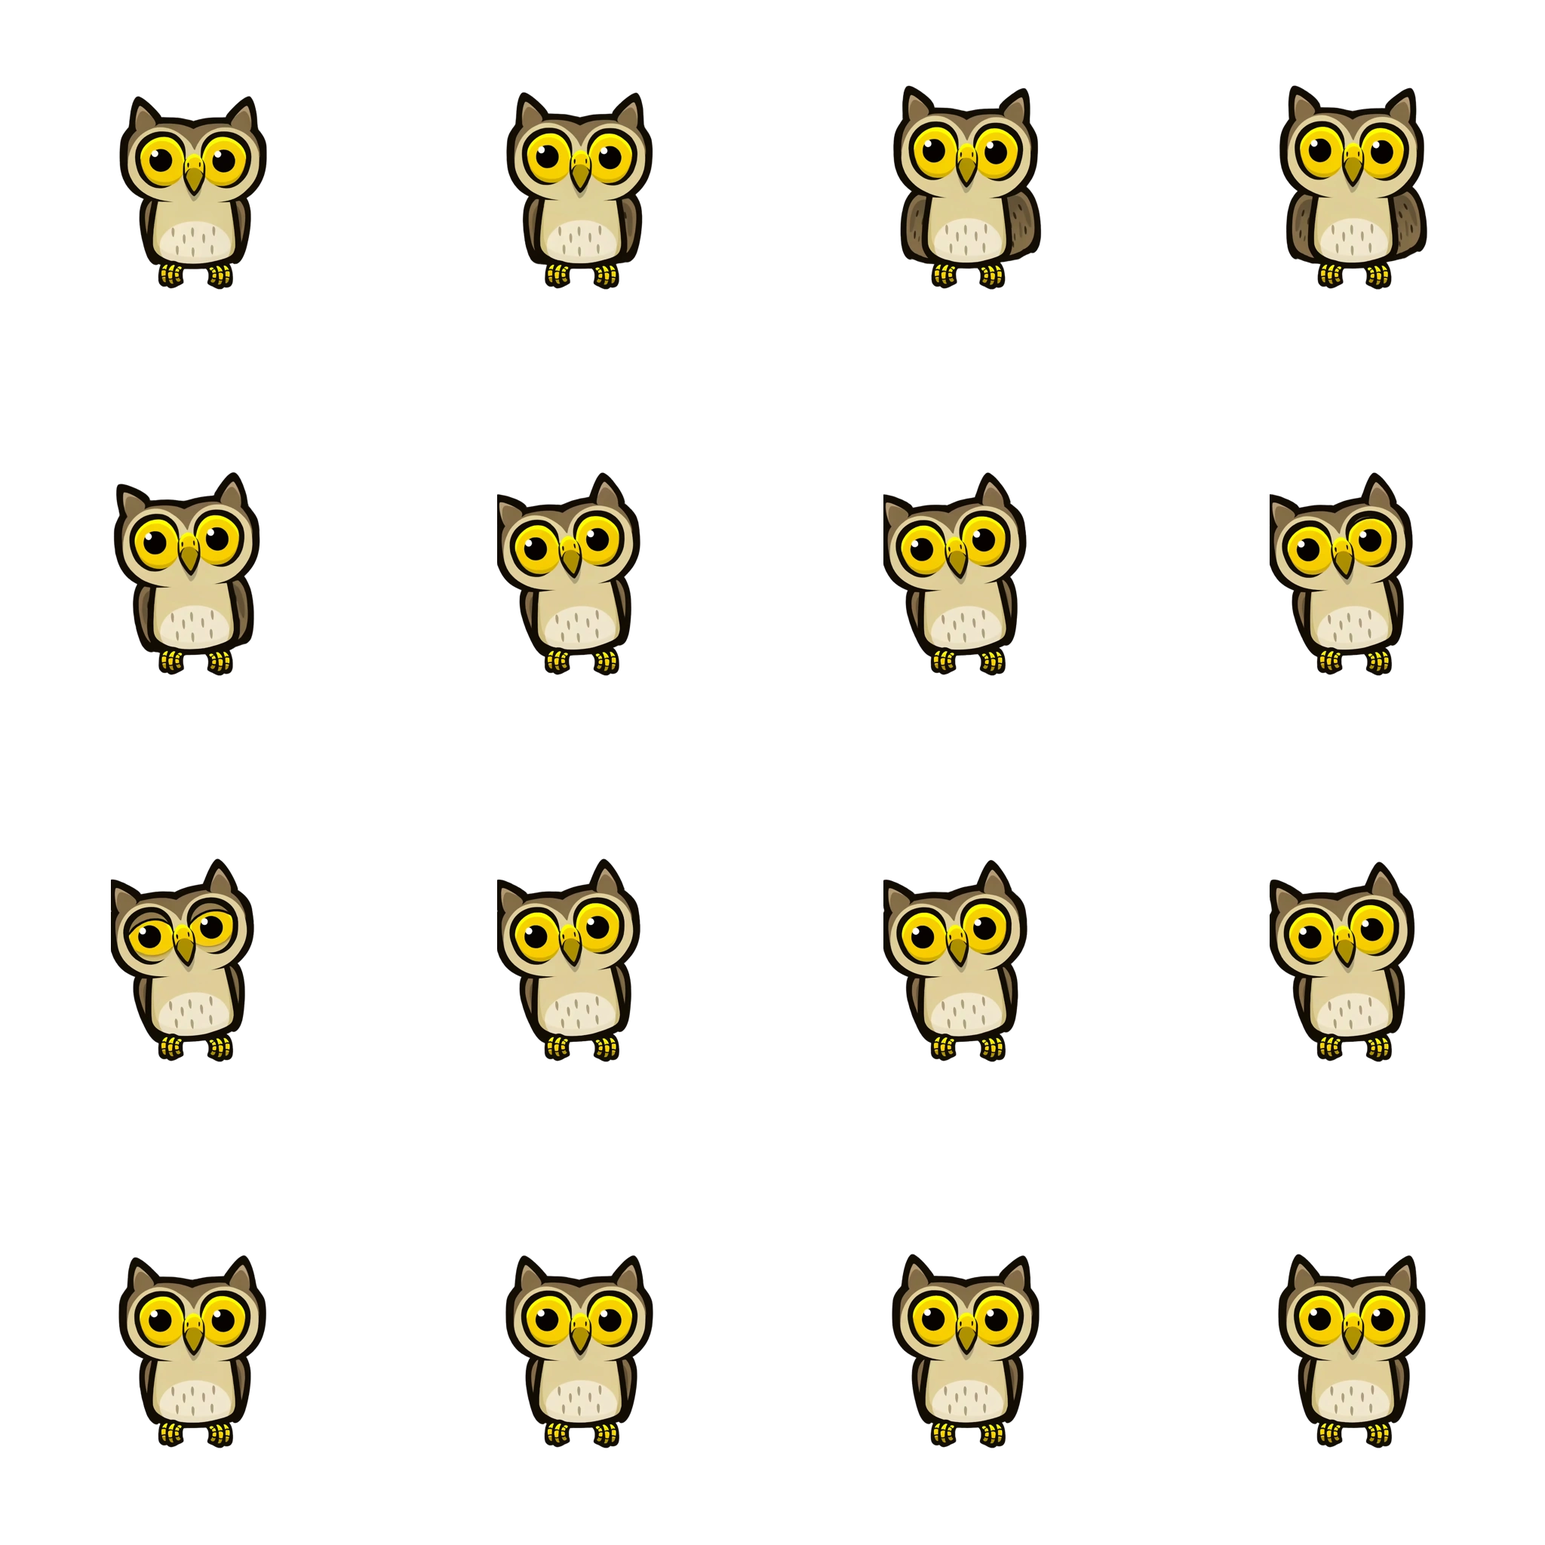
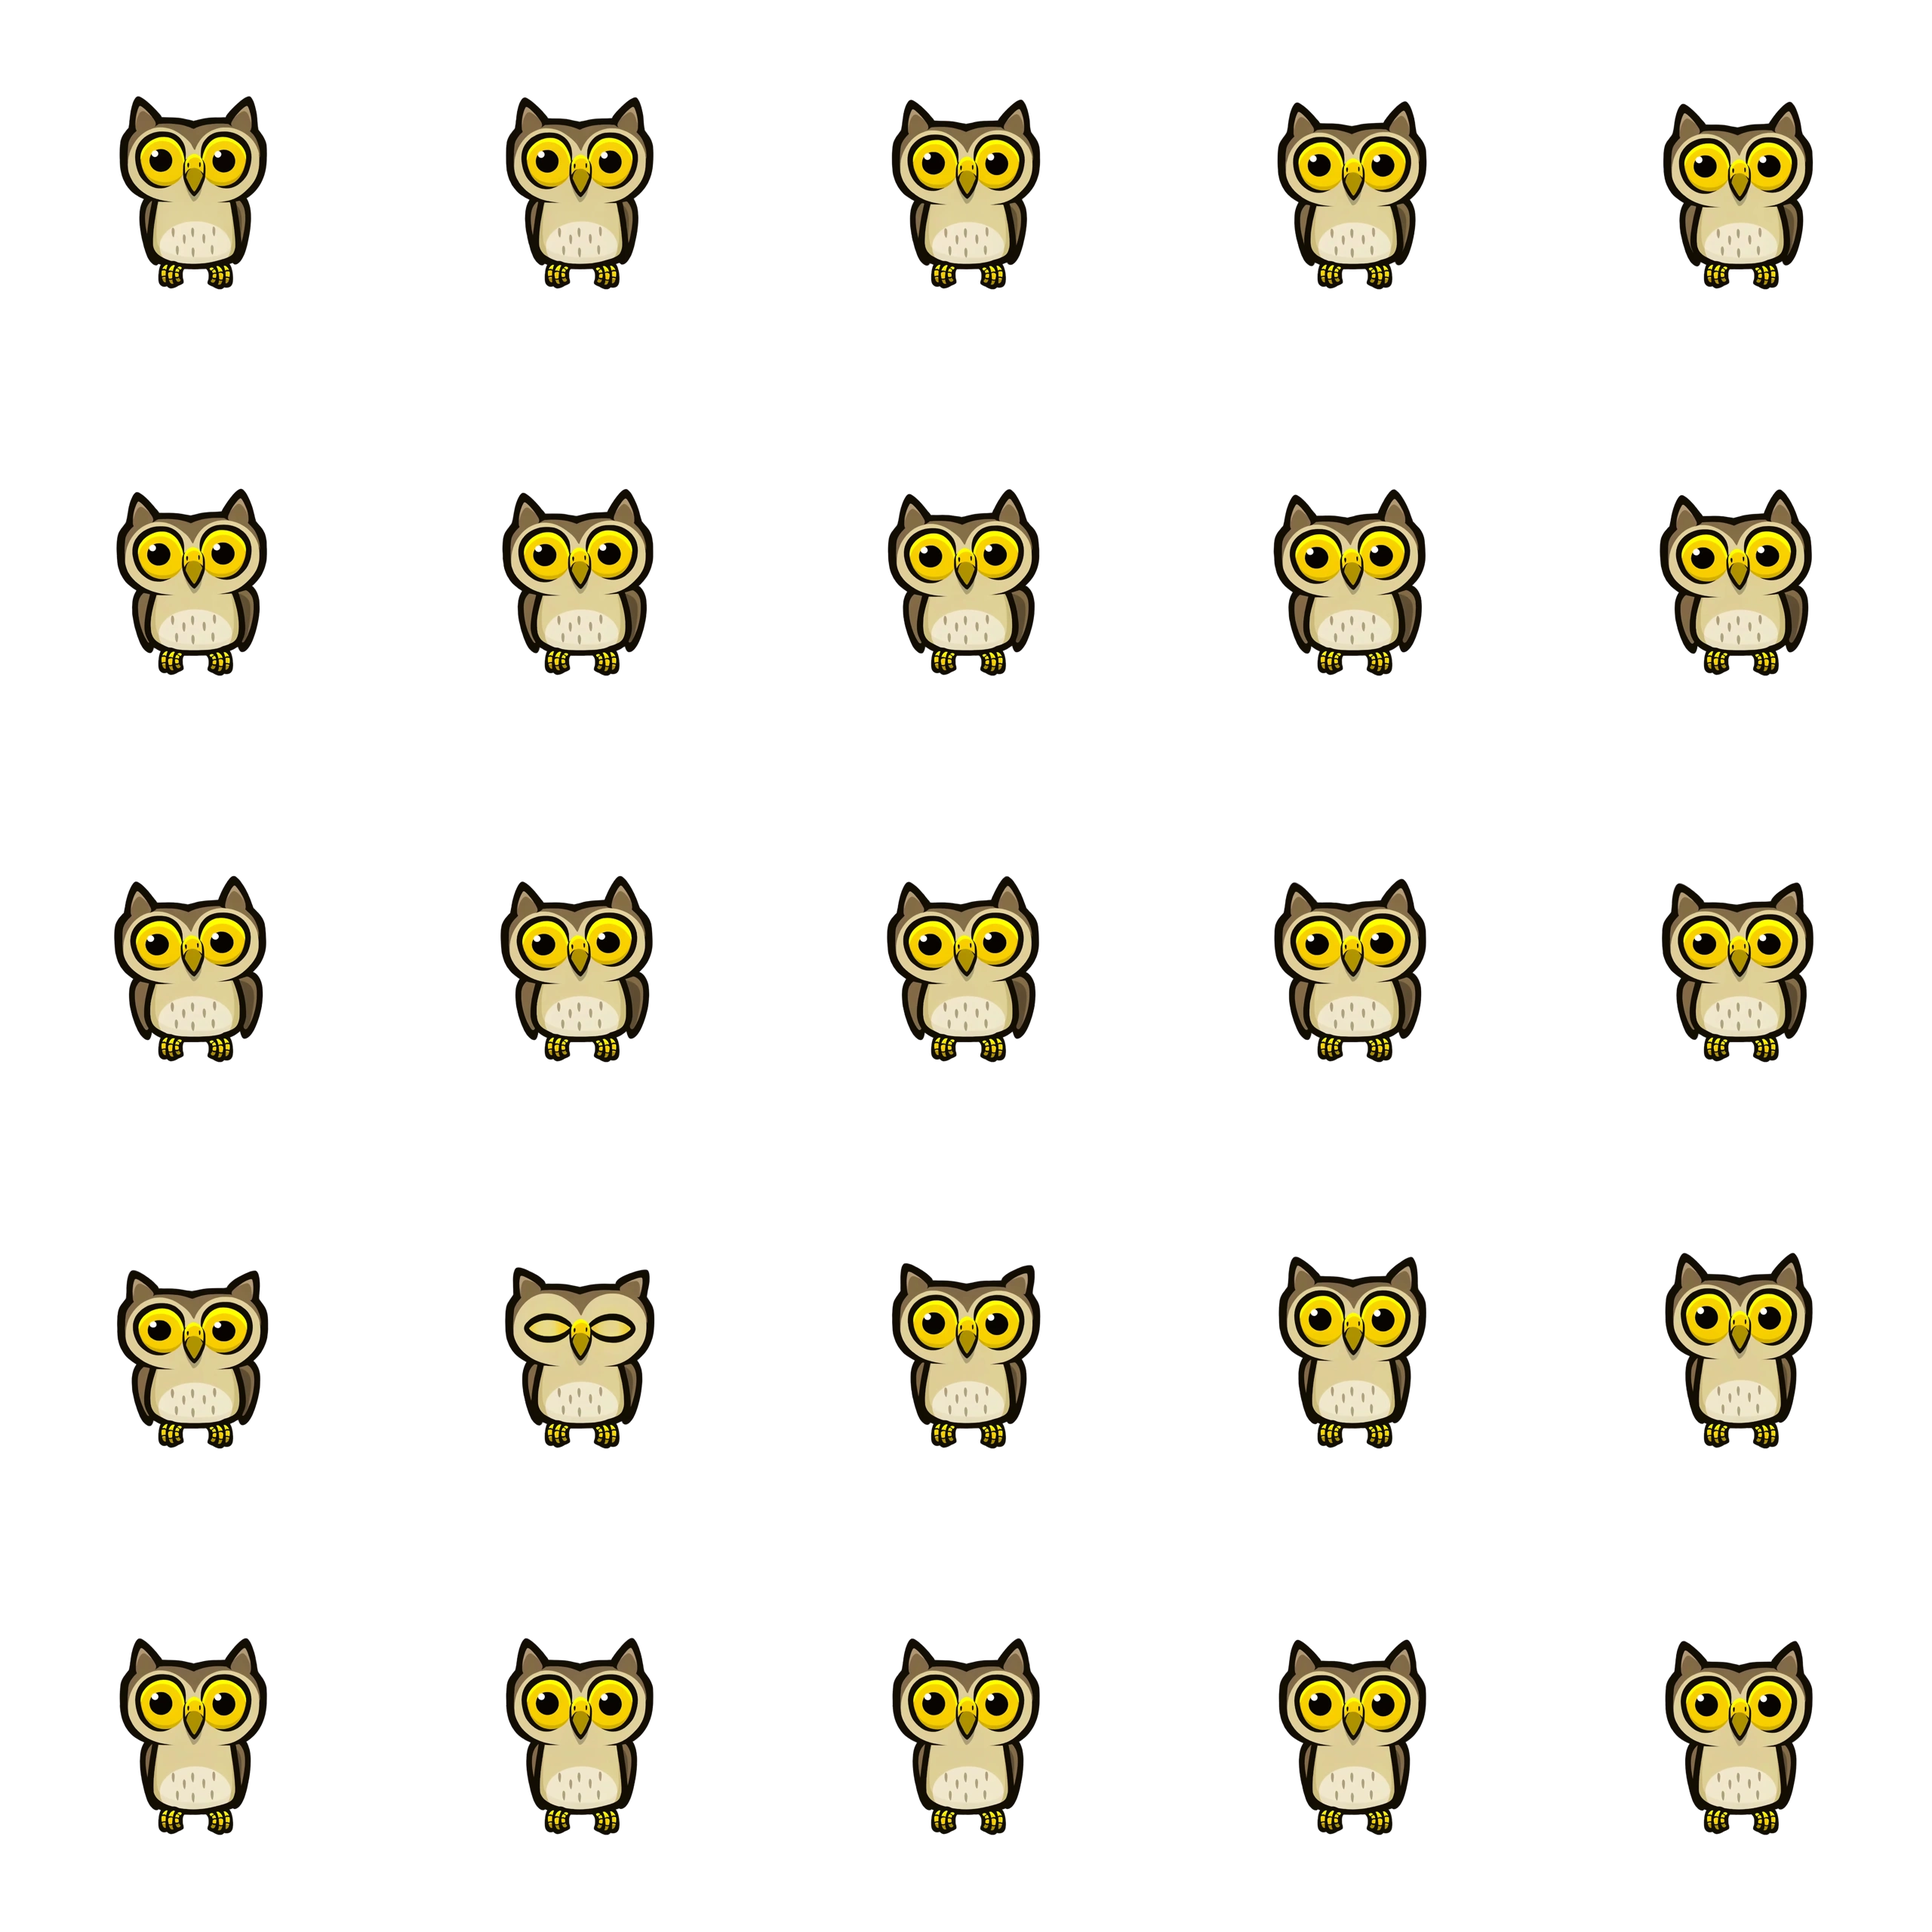
feat(animals): ship the reviewed 25-frame owl emotions
Replace the choppy 16-frame owl clips with the generation that passed review, so Duchess matches the current 13fps spec.

diff --git a/src/phaser/animals/emotionSheets.generated.ts b/src/phaser/animals/emotionSheets.generated.ts
@@ -274,15 +274,15 @@ export const EMOTION_SHEETS: Partial<
       file: 'owl-angry.png',
       frameWidth: 512,
       frameHeight: 512,
-      frameCount: 16,
-      frameRate: 8,
-      scale: 2.2129,
+      frameCount: 25,
+      frameRate: 13,
+      scale: 2.1962,
       originX: 0.5019,
       originY: 0.75,
       quality: {
         loopPop: 0.1,
-        heightSwing: 11,
-        driftX: 0.5,
+        heightSwing: 7.6,
+        driftX: 0.3,
         warnings: [],
       },
     },
@@ -290,15 +290,15 @@ export const EMOTION_SHEETS: Partial<
       file: 'owl-doubtful.png',
       frameWidth: 512,
       frameHeight: 512,
-      frameCount: 16,
-      frameRate: 8,
-      scale: 2.1476,
-      originX: 0.4931,
+      frameCount: 25,
+      frameRate: 13,
+      scale: 2.2214,
+      originX: 0.496,
       originY: 0.75,
       quality: {
-        loopPop: 0.16,
-        heightSwing: 5.5,
-        driftX: 8.3,
+        loopPop: 0.43,
+        heightSwing: 9.2,
+        driftX: 2.3,
         warnings: [],
       },
     },
@@ -306,15 +306,15 @@ export const EMOTION_SHEETS: Partial<
       file: 'owl-sneaky.png',
       frameWidth: 512,
       frameHeight: 512,
-      frameCount: 16,
-      frameRate: 8,
-      scale: 2.2045,
-      originX: 0.4999,
+      frameCount: 25,
+      frameRate: 13,
+      scale: 2.1087,
+      originX: 0.5058,
       originY: 0.75,
       quality: {
-        loopPop: 0.18,
-        heightSwing: 14.4,
-        driftX: 0.3,
+        loopPop: 0.12,
+        heightSwing: 7.2,
+        driftX: 3.8,
         warnings: [],
       },
     },
@@ -322,15 +322,15 @@ export const EMOTION_SHEETS: Partial<
       file: 'owl-talking.png',
       frameWidth: 512,
       frameHeight: 512,
-      frameCount: 16,
-      frameRate: 8,
-      scale: 2.1962,
+      frameCount: 25,
+      frameRate: 13,
+      scale: 2.1716,
       originX: 0.5009,
       originY: 0.75,
       quality: {
-        loopPop: 0.1,
-        heightSwing: 4.2,
-        driftX: 0.3,
+        loopPop: 0.14,
+        heightSwing: 6,
+        driftX: 0,
         warnings: [],
       },
     },
@@ -338,15 +338,15 @@ export const EMOTION_SHEETS: Partial<
       file: 'owl-thinking.png',
       frameWidth: 512,
       frameHeight: 512,
-      frameCount: 16,
-      frameRate: 8,
+      frameCount: 25,
+      frameRate: 13,
       scale: 2.2299,
-      originX: 0.4901,
-      originY: 0.752,
+      originX: 0.4921,
+      originY: 0.748,
       quality: {
-        loopPop: 0.25,
-        heightSwing: 1.5,
-        driftX: 3.8,
+        loopPop: 0.13,
+        heightSwing: 1.9,
+        driftX: 3,
         warnings: [],
       },
     },
